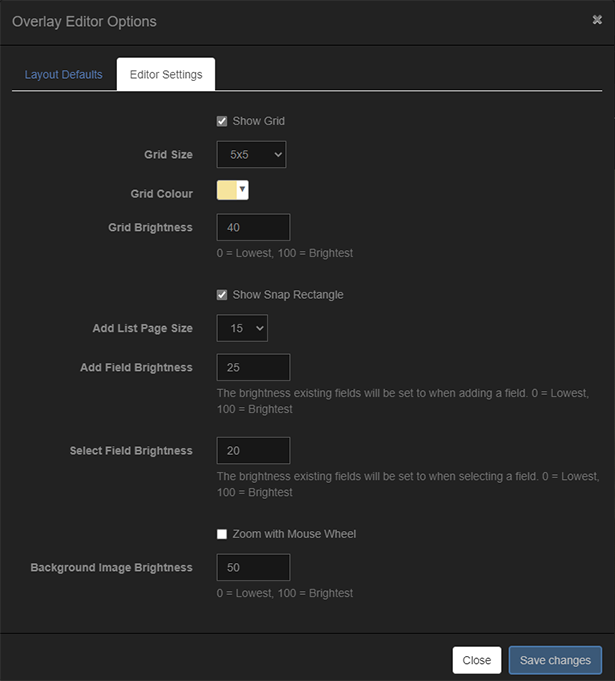
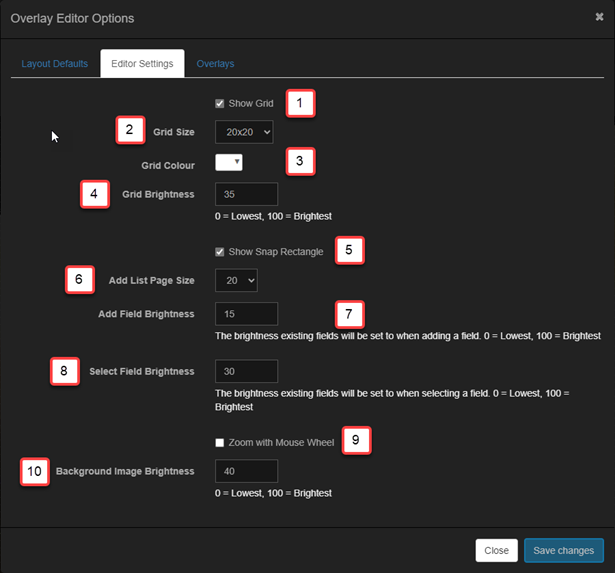
Updates for overlays

diff --git a/html/documentation/overlays/overlays.html b/html/documentation/overlays/overlays.html
@@ -1980,47 +1980,77 @@
 						<table class="morePadding">
 							<tbody>
 								<tr>
-									<td align="center">
-										<img allsky="true" src="overlay-settings-layout.png" alt="Layout Settings"
-											loading="lazy" />
+									<td width="30%">
+										<img allsky="true" src="overlay-settings-layout.png" alt="Layout Settings" loading="lazy" />
 									</td>
-								</tr>
-								<tr>
 									<td>
-										<ul style="padding-top: 0px">
-											<li><strong>Default Image Opacity</strong>
-												- The default opacity for new images.</li>
-											<li><strong>Default Image Rotation</strong>
-												- The default rotation for new images.</li>
-											<li><strong>Default Font</strong>
-												- The default font for new text fields.</li>
-											<li><strong>Default Font Size</strong>
-												- The default font size for new text fields.</li>
-											<li><strong>Default Font Opacity</strong>
-												- The default font opacity for new text fields.</li>
-											<li><strong>Default Font Colour</strong>
-												- The default font color for new text fields.</li>
-											<li><strong>Default Text Rotation</strong>
-												- The default rotation for new text fields.</li>
-											<li><strong>Default Extra Data Expiry</strong>
-												- The default expiration time in seconds for "extra" data files
-												that do not specify an expiry time.
-												This applies to all variables in <span class="fileName">.txt</span>
-												files
-												and entries in <span class="fileName">.json</span> files that
-												don't have an "<span class="json">expires</span>" attribute.</li>
-											<li><strong>Norad ID's</strong>
-												- A comma-separated list of NORAD IDs for generating
-												<a href="#satelliteData">satellite data</a>.
-											</li>
-											<li><strong>Include Planets</strong> - When enabled, data for the
-												planets' positions will be generated as variables.</li>
-											<li><strong>Include Sun</strong> - When enabled, data for the Sun's
-												position will be generated as variables.</li>
-											<li><strong>Include Moon</strong> - When enabled, data for the Moon's
-												position will be generated as variables.</li>
-										</ul>
-									</td>
+										<p>
+											<span class="moduleToolbarIconNumber">1</span><strong> Default Image Opacity</strong> - The default opacity for new images.
+										</p>
+										<p>
+											<span class="moduleToolbarIconNumber">2</span>
+											<strong> Default Image Rotation</strong>- The default rotation for new images.
+										</p>
+										<p>
+											<span class="moduleToolbarIconNumber">3</span>
+											<strong> Default Font</strong> - The default font for new text fields.
+										</p>
+										<p>
+											<span class="moduleToolbarIconNumber">4</span>
+											<strong> Default Font Size</strong> - The default font size for new text fields.
+										</p>
+										<p>
+											<span class="moduleToolbarIconNumber">5</span>
+											<strong> Default Font Opacity</strong> - The default font opacity for new text fields.
+										</p>
+										<p>
+											<span class="moduleToolbarIconNumber">6</span>
+											<strong> Default Font Colour</strong> - The default font color for new text fields.
+										</p>
+										<p>
+											<span class="moduleToolbarIconNumber">7</span>
+											<strong> Default Text Rotation</strong> - The default rotation for new text fields.
+										</p>
+										<p>
+											<span class="moduleToolbarIconNumber">8</span>
+											<strong> Default Stroke Colour</strong> - The default colour used for the font stroke.
+										</p>
+										<p>
+											<span class="moduleToolbarIconNumber">9</span>
+											<strong>Default Extra Data Expiry</strong>
+											- The default expiration time in seconds for "extra" data files
+											that do not specify an expiry time.
+											This applies to all variables in <span class="fileName">.txt</span>
+											files
+											and entries in <span class="fileName">.json</span> files that
+											don't have an "<span class="json">expires</span>" attribute.
+										</p>
+										<p>
+											<span class="moduleToolbarIconNumber">10</span>
+											<strong> Expiry Text</strong> - The default text used when a field has expired.
+										</p>										
+										<p>
+											<span class="moduleToolbarIconNumber">11</span>
+											<strong>Norad ID's</strong>
+											- A comma-separated list of NORAD IDs for generating
+											<a href="#satelliteData">satellite data</a>.
+										</p>
+										<p>
+											<span class="moduleToolbarIconNumber">12</span>
+											<strong>Include Planets</strong> - When enabled, data for the
+											planets' positions will be generated as variables.
+										</p>
+										<p>
+											<span class="moduleToolbarIconNumber">12</span>
+											<strong>Include Sun</strong> - When enabled, data for the Sun's
+											position will be generated as variables.
+										</p>
+										<p>
+											<span class="moduleToolbarIconNumber">14</span>
+											<strong>Include Moon</strong> - When enabled, data for the Moon's
+											position will be generated as variables.
+										</p>
+								  </td>
 								</tr>
 							</tbody>
 						</table>
@@ -2044,49 +2074,70 @@
 						<table class="two-col morePadding">
 							<tbody>
 								<tr>
-									<td align="center">
+									<td width="30%">
 										<img allsky="true" src="overlay-settings-editor.png" alt="Editor Settings"
 											loading="lazy" />
 									</td>
-								<tr>
-								<tr>
 									<td>
-										<ul style="padding-top: 0px">
-											<li><strong>Show Grid</strong> - When enabled, displays a grid for
-												easier
-												alignment of fields on the overlay.
-												The grid is used to 'snap' fields making their placement easier.
-											</li>
-											<li><strong>Grid Size</strong> - The size of the grid in pixels.</li>
-											<li><strong>Grid Colour</strong> - The colour to use for the grid.</li>
-											<li><strong>Grid Brightness</strong> - The grid brightness.
-												Values range from 0 (lowest brightness) to 100 (brightest).</li>
-											<li><strong>Show Snap Rectangle</strong> - When enabled, moving a field
-												will cause a rectangle to be displayed showing where the field will
-												snap to if dropped.</li>
-											<li><strong>Add List Page Size</strong> - The number of variables to
-												show per page in the
-												<span class="managerName">Variable Manager</span>.
-											</li>
-											<li><strong>Add Field Brightness</strong> - When adding a new field all
-												other fields will be set to this brightness to make the new field
-												easier to see.
-												Values range from 0 (darkest) to 100 (each field's full brightness).
-											</li>
-											<li><strong>Select Field Brightness</strong> - When selecting a field all
-												other fields will be set to this opacity to make the new field
-												easier to see.
-												Values range from 0 (darkest) to 100 (each field's full brightness).
-											</li>
-											<li><strong>Zoom with Mouse Wheel</strong> - When enabled, scrolling the
-												mouse wheel will zoom the overlay.</li>
-											<li><strong>Background Image Brightness</strong> - Brightness of the
-												captured image being overlayed.
-												Lower this if the captured image is bright to make
-												it easier to see the overlay fields.
-												Values range from 0 (black background) to
-												100 (full brightness of captured image).</li>
-										</ul>
+										<p>
+											<span class="moduleToolbarIconNumber">1</span>
+											<strong> Show Grid</strong> - When enabled, displays a grid for
+											easier
+											alignment of fields on the overlay.
+											The grid is used to 'snap' fields making their placement easier.
+										</p>
+										<p>
+											<span class="moduleToolbarIconNumber">2</span>
+											<strong> Grid Size</strong> - The size of the grid in pixels.
+										</p>
+										<p>
+											<span class="moduleToolbarIconNumber">3</span>
+											<strong> Grid Colour</strong> - The colour to use for the grid.
+										</p>
+										<p>
+											<span class="moduleToolbarIconNumber">4</span>
+											<strong> Grid Brightness</strong> - The grid brightness.
+											Values range from 0 (lowest brightness) to 100 (brightest).
+										</p>
+										<p>
+											<span class="moduleToolbarIconNumber">5</span>
+											<strong> Show Snap Rectangle</strong> - When enabled, moving a field
+											will cause a rectangle to be displayed showing where the field will
+											snap to if dropped.
+										</p>
+										<p>
+											<span class="moduleToolbarIconNumber">6</span><strong> Add List Page Size</strong> - The number of variables to
+											show per page in the
+											<span class="managerName">Variable Manager</span>.
+										</p>
+										<p>
+											<span class="moduleToolbarIconNumber">7</span>
+											<strong> Add Field Brightness</strong> - When adding a new field all
+											other fields will be set to this brightness to make the new field
+											easier to see.
+											Values range from 0 (darkest) to 100 (each field's full brightness).
+										</p>
+										<p>
+											<span class="moduleToolbarIconNumber">8</span>
+											<strong> Select Field Brightness</strong> - When selecting a field all
+											other fields will be set to this opacity to make the new field
+											easier to see.
+											Values range from 0 (darkest) to 100 (each field's full brightness).
+										</p>
+										<p>
+											<span class="moduleToolbarIconNumber">9</span>
+											<strong> Zoom with Mouse Wheel</strong> - When enabled, scrolling the
+											mouse wheel will zoom the overlay.
+										</p>
+										<p>
+											<span class="moduleToolbarIconNumber">10</span>
+											<strong> Background Image Brightness</strong> - Brightness of the
+											captured image being overlayed.
+											Lower this if the captured image is bright to make
+											it easier to see the overlay fields.
+											Values range from 0 (black background) to
+											100 (full brightness of captured image).
+										</p>
 									</td>
 								</tr>
 							</tbody>
@@ -2100,6 +2151,47 @@
 						</p>
 
 					</details>
+				
+					<h3>Editor Settings Overlays tab</h3>
+					<p>The editor settings Overlay displays available overlays and allows them to be viewed or edited.</p>
+					<details sub>
+						<summary></summary>
+						<table class="two-col morePadding">
+							<tbody>
+								<tr>
+									<td width="30%">
+										<img allsky="true" src="overlay-settings-overlays.png" alt="Editor Settings Overlays"
+											loading="lazy" />
+									</td>
+									<td>
+										<p>
+											<span class="moduleToolbarIconNumber">1</span>
+											<strong> Available Overlays </strong> - Displays a table showing all of the overlays available.
+										</p>
+										<p>
+											<span class="moduleToolbarIconNumber">2</span>
+											<strong> View Overlay </strong> - This icon is displayed when the overlay is not editable, these are overlays provided by the Allsky team. Clicking the button will view the overlay but not allow it to be edited
+										</p>										
+										<p>
+											<span class="moduleToolbarIconNumber">3</span>
+											<strong> Edit Overlay </strong> - This icon is displayed when the overlay is editable. Clicking the button will view the overlay and allow it to be edited
+										</p>										
+
+									</td>
+								</tr>
+							</tbody>
+						</table>
+
+						<p class="morePadding">
+						<blockquote class="morePadding">When changing the brightness settings you may need to click
+							somewhere in the
+							overlay in order for the change to take affect.
+						</blockquote>
+						</p>
+
+					</details>
+
+
 					<hr class="separatorSmall">
 				</div>
 			</details>
